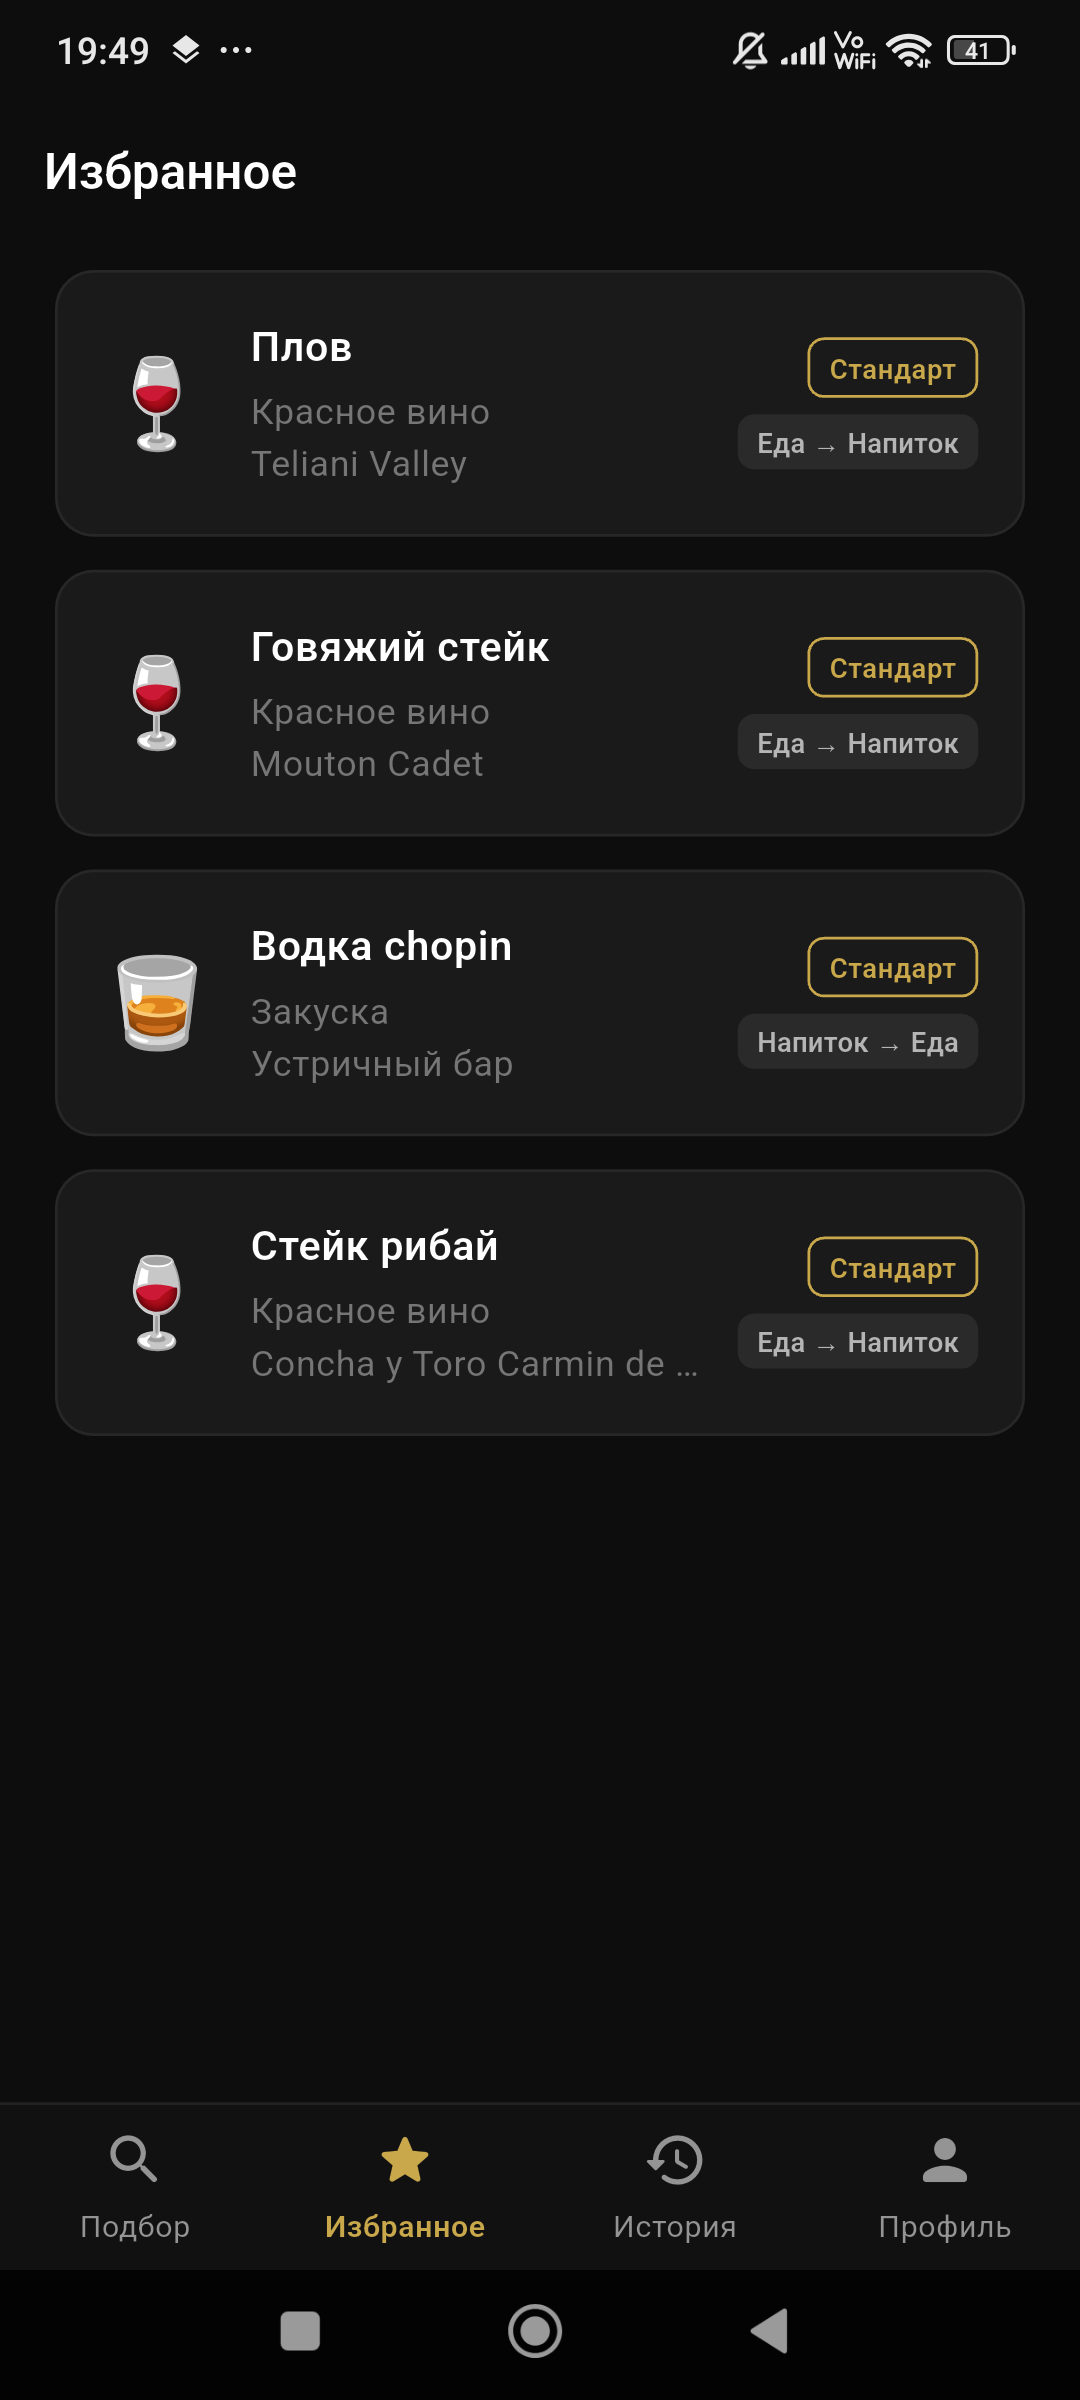
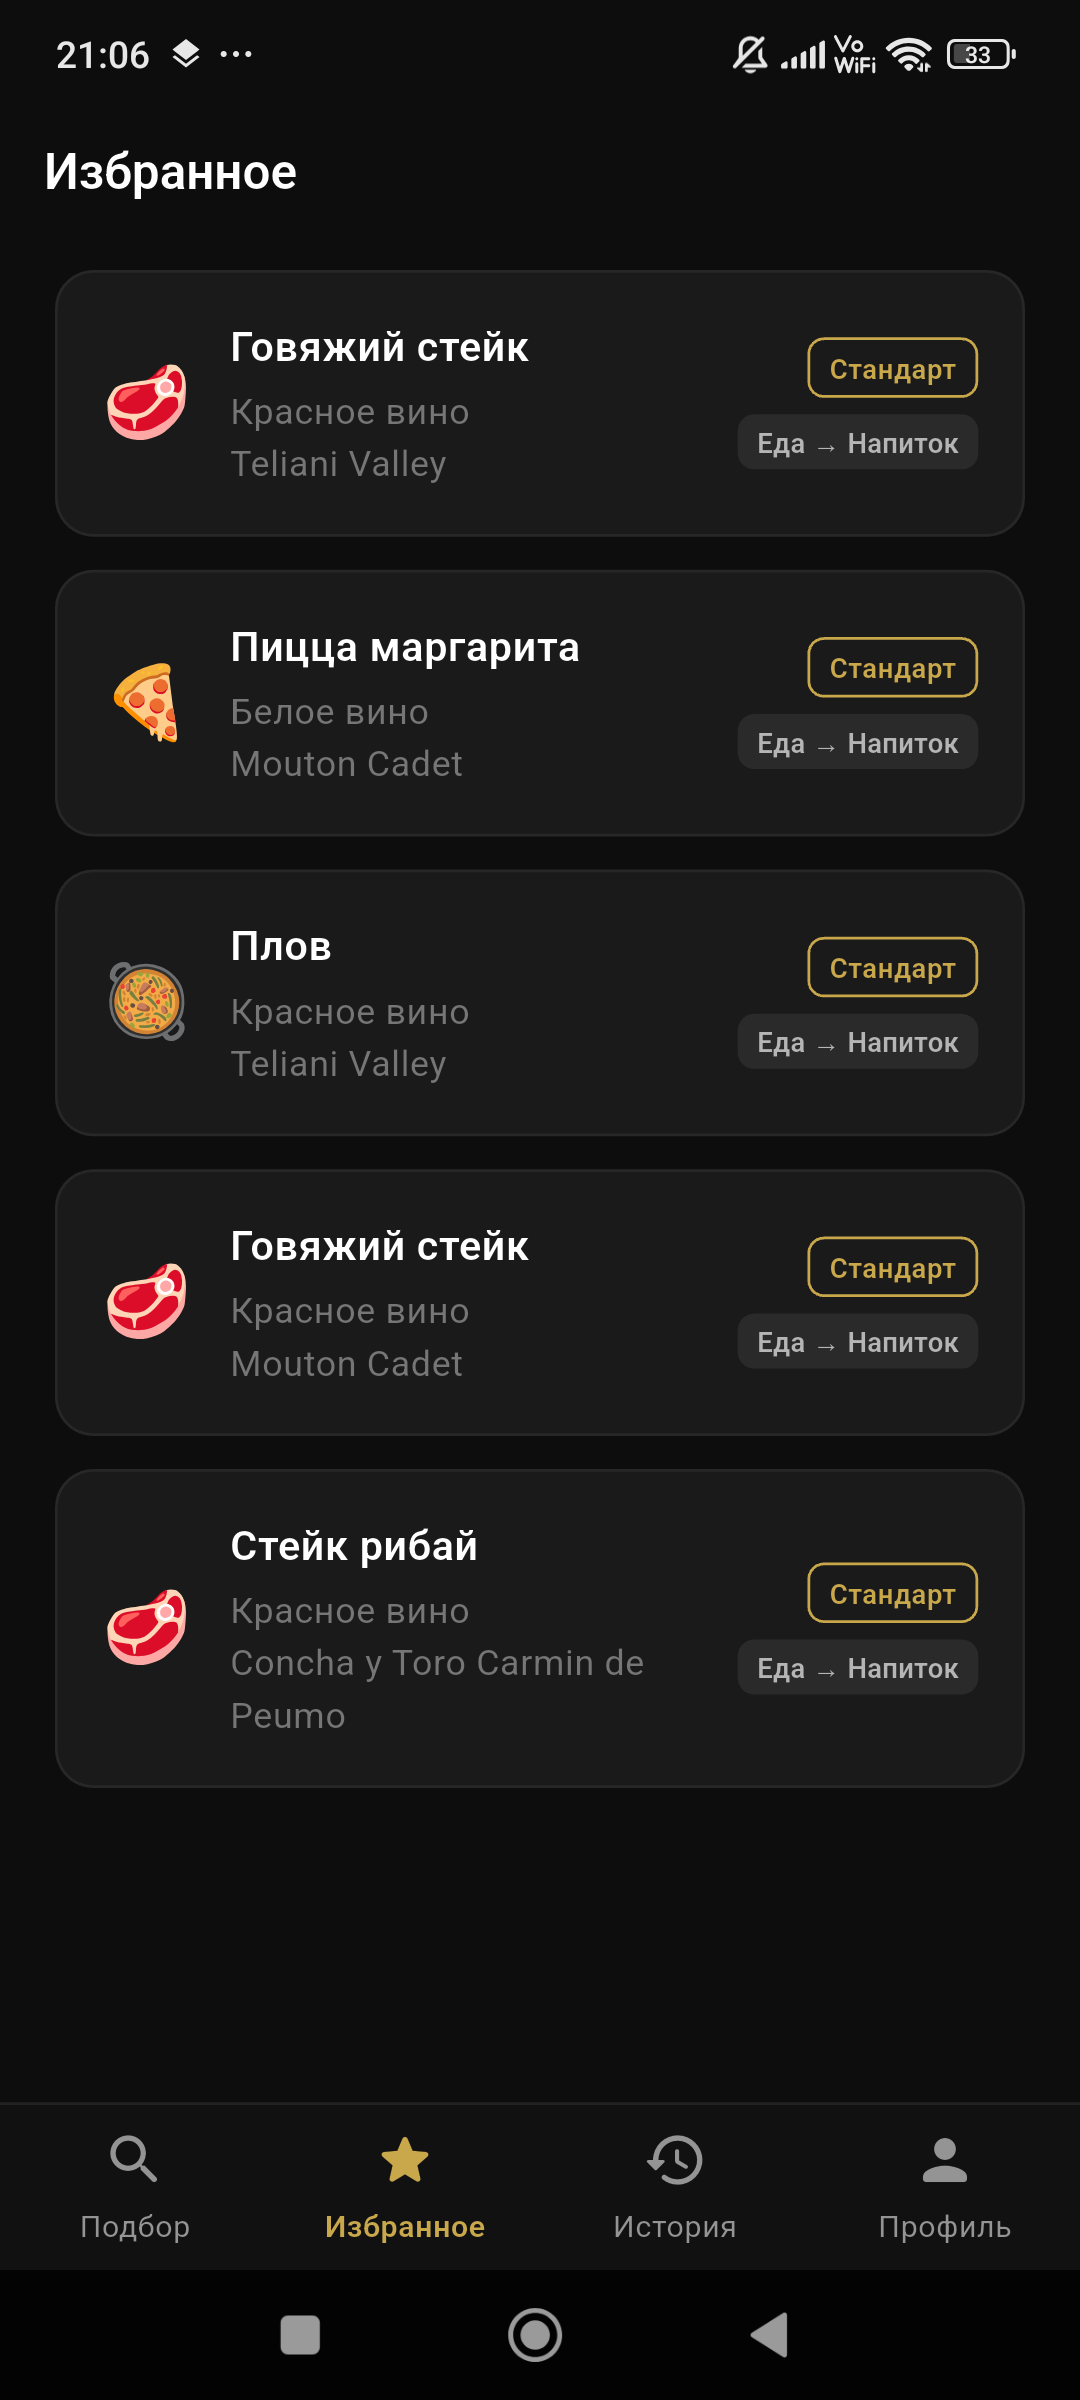
feat(favorites): food emoji per dish + layout polish
- _foodEmoji(dish) maps pizza→🍕, steak→🥩, plov→🥘 etc. for Еда→Напиток mode
- Same function in history_screen for consistency between tabs
- emoji size 26px (was 32) — balanced with text, no dominance
- white wine emoji 🥂→🍷, vodka 🫗→🥃 (MIUI compatibility)
- dish maxLines:2, brand maxLines:2 — no more ellipsis on long names

diff --git a/lib/screens/home_screen.dart b/lib/screens/home_screen.dart
@@ -167,10 +167,7 @@ class _HomeScreenState extends State<HomeScreen> {
           _isFoodToAlcohol
               ? 'Опишите подробнее — чем точнее, тем лучше подборка'
               : 'Укажите напиток — подберем закуски и блюда',
-          style: TextStyle(
-            color: Colors.white.withOpacity(0.35),
-            fontSize: 13,
-          ),
+          style: TextStyle(color: Colors.white.withOpacity(0.35), fontSize: 13),
         ),
       ],
     );
@@ -210,7 +207,12 @@ class _HomeScreenState extends State<HomeScreen> {
 
   Widget _buildHints() {
     final hints = _isFoodToAlcohol
-        ? ['🥩 Говяжий стейк', '🍣 Суши', '🫕 Рамен с курицей', '🧀 Сырная тарелка']
+        ? [
+            '🥩 Говяжий стейк',
+            '🍣 Суши',
+            '🫕 Рамен с курицей',
+            '🧀 Сырная тарелка',
+          ]
         : ['🍷 Красное вино', '🥃 Виски', '🍺 Пиво', '🥂 Шампанское'];
 
     return Wrap(
@@ -286,9 +288,13 @@ class _HomeScreenState extends State<HomeScreen> {
                       Text(
                         _budgetLabels[i],
                         style: TextStyle(
-                          color: selected ? _gold : Colors.white.withOpacity(0.4),
+                          color: selected
+                              ? _gold
+                              : Colors.white.withOpacity(0.4),
                           fontSize: 12,
-                          fontWeight: selected ? FontWeight.w600 : FontWeight.w400,
+                          fontWeight: selected
+                              ? FontWeight.w600
+                              : FontWeight.w400,
                         ),
                       ),
                     ],
@@ -310,7 +316,9 @@ class _HomeScreenState extends State<HomeScreen> {
           content: Text(_isFoodToAlcohol ? 'Введите блюдо' : 'Введите напиток'),
           backgroundColor: Colors.red.shade800,
           behavior: SnackBarBehavior.floating,
-          shape: RoundedRectangleBorder(borderRadius: BorderRadius.circular(10)),
+          shape: RoundedRectangleBorder(
+            borderRadius: BorderRadius.circular(10),
+          ),
           margin: const EdgeInsets.only(bottom: 80, left: 16, right: 16),
         ),
       );
@@ -330,12 +338,12 @@ class _HomeScreenState extends State<HomeScreen> {
       await Navigator.push(
         context,
         PageRouteBuilder(
-          pageBuilder: (_, __, ___) => ResultScreen(
+          pageBuilder: (_, _, _) => ResultScreen(
             dish: dish,
             mode: _isFoodToAlcohol ? 'food_to_alcohol' : 'alcohol_to_food',
             budget: _isFoodToAlcohol ? _budgetKeys[_budgetIndex] : 'medium',
           ),
-          transitionsBuilder: (_, animation, __, child) =>
+          transitionsBuilder: (_, animation, _, child) =>
               FadeTransition(opacity: animation, child: child),
           transitionDuration: const Duration(milliseconds: 220),
         ),
@@ -355,12 +363,18 @@ class _HomeScreenState extends State<HomeScreen> {
           backgroundColor: _gold,
           foregroundColor: _bg,
           disabledBackgroundColor: _gold.withOpacity(0.5),
-          shape: RoundedRectangleBorder(borderRadius: BorderRadius.circular(14)),
+          shape: RoundedRectangleBorder(
+            borderRadius: BorderRadius.circular(14),
+          ),
           elevation: 0,
         ),
         child: Text(
           _isFoodToAlcohol ? 'Подобрать напиток' : 'Подобрать блюда',
-          style: const TextStyle(fontSize: 16, fontWeight: FontWeight.w700, letterSpacing: 0.3),
+          style: const TextStyle(
+            fontSize: 16,
+            fontWeight: FontWeight.w700,
+            letterSpacing: 0.3,
+          ),
         ),
       ),
     );

diff --git a/lib/screens/favorites_screen.dart b/lib/screens/favorites_screen.dart
@@ -225,6 +225,28 @@ class _FavoritesScreenState extends State<FavoritesScreen> {
     );
   }
 
+  String _foodEmoji(String dish) {
+    final d = dish.toLowerCase();
+    if (d.contains('пицц')) return '🍕';
+    if (d.contains('стейк') || d.contains('рибай')) return '🥩';
+    if (d.contains('бургер')) return '🍔';
+    if (d.contains('паст') || d.contains('спагетт')) return '🍝';
+    if (d.contains('суши') || d.contains('роллы') || d.contains('сашим')) return '🍣';
+    if (d.contains('рамен') || d.contains('лапш')) return '🍜';
+    if (d.contains('плов')) return '🥘';
+    if (d.contains('салат')) return '🥗';
+    if (d.contains('десерт') || d.contains('торт') || d.contains('шоколад')) return '🍰';
+    if (d.contains('суп') || d.contains('борщ') || d.contains('солян')) return '🍲';
+    if (d.contains('рыб') || d.contains('лосос') || d.contains('тунец')) return '🐟';
+    if (d.contains('устриц') || d.contains('морепродукт')) return '🦪';
+    if (d.contains('курица') || d.contains('цыпленок')) return '🍗';
+    if (d.contains('свинин') || d.contains('ребра')) return '🥓';
+    if (d.contains('котлет') || d.contains('фарш')) return '🍖';
+    if (d.contains('сыр')) return '🧀';
+    if (d.contains('овощ') || d.contains('гриль')) return '🥦';
+    return '🍽';
+  }
+
   String _drinkEmoji(String drink) {
     final d = drink.toLowerCase();
     if (d.contains('белое') || d.contains('розовое') || d.contains('рислинг') || d.contains('шардоне') || d.contains('пино гриджо') || d.contains('совиньон блан')) return '🥂';
@@ -324,16 +346,11 @@ class _FavoritesScreenState extends State<FavoritesScreen> {
           ),
           child: Row(
             children: [
-              // Для alcohol_to_food — один крупный эмодзи напитка на входе.
-              // Для food_to_alcohol — 3 эмодзи подобранных напитков в ряд:
-              // честный превью разнообразия категорий без тапа.
               Text(
                 item.mode == 'alcohol_to_food'
                     ? _drinkEmoji(item.dish)
-                    : (item.results.isNotEmpty
-                        ? item.results.take(3).map((r) => r.resolvedEmoji).join(' ')
-                        : '🍷'),
-                style: TextStyle(fontSize: item.mode == 'alcohol_to_food' ? 32 : 20),
+                    : _foodEmoji(item.dish),
+                style: const TextStyle(fontSize: 26),
               ),
               const SizedBox(width: 14),
               Expanded(
@@ -343,7 +360,7 @@ class _FavoritesScreenState extends State<FavoritesScreen> {
                     Text(
                       item.dish.isNotEmpty ? '${item.dish[0].toUpperCase()}${item.dish.substring(1)}' : '',
                       style: const TextStyle(color: Colors.white, fontSize: 15, fontWeight: FontWeight.w600),
-                      maxLines: 1,
+                      maxLines: 2,
                       overflow: TextOverflow.ellipsis,
                     ),
                     const SizedBox(height: 4),

diff --git a/lib/screens/history_screen.dart b/lib/screens/history_screen.dart
@@ -172,6 +172,28 @@ class _HistoryScreenState extends State<HistoryScreen> {
     );
   }
 
+  String _foodEmoji(String dish) {
+    final d = dish.toLowerCase();
+    if (d.contains('пицц')) return '🍕';
+    if (d.contains('стейк') || d.contains('рибай')) return '🥩';
+    if (d.contains('бургер')) return '🍔';
+    if (d.contains('паст') || d.contains('спагетт')) return '🍝';
+    if (d.contains('суши') || d.contains('роллы') || d.contains('сашим')) return '🍣';
+    if (d.contains('рамен') || d.contains('лапш')) return '🍜';
+    if (d.contains('плов')) return '🥘';
+    if (d.contains('салат')) return '🥗';
+    if (d.contains('десерт') || d.contains('торт') || d.contains('шоколад')) return '🍰';
+    if (d.contains('суп') || d.contains('борщ') || d.contains('солян')) return '🍲';
+    if (d.contains('рыб') || d.contains('лосос') || d.contains('тунец')) return '🐟';
+    if (d.contains('устриц') || d.contains('морепродукт')) return '🦪';
+    if (d.contains('курица') || d.contains('цыпленок')) return '🍗';
+    if (d.contains('свинин') || d.contains('ребра')) return '🥓';
+    if (d.contains('котлет') || d.contains('фарш')) return '🍖';
+    if (d.contains('сыр')) return '🧀';
+    if (d.contains('овощ') || d.contains('гриль')) return '🥦';
+    return '🍽';
+  }
+
   String _drinkEmoji(String drink) {
     final d = drink.toLowerCase();
     if (d.contains('белое') || d.contains('розовое') || d.contains('рислинг') || d.contains('шардоне') || d.contains('пино гриджо') || d.contains('совиньон блан')) return '🥂';
@@ -219,8 +241,8 @@ class _HistoryScreenState extends State<HistoryScreen> {
             Text(
               item.mode == 'alcohol_to_food'
                   ? _drinkEmoji(item.dish)
-                  : (firstResult?.resolvedEmoji ?? '🍷'),
-              style: const TextStyle(fontSize: 28),
+                  : _foodEmoji(item.dish),
+              style: const TextStyle(fontSize: 26),
             ),
             const SizedBox(width: 12),
             Expanded(

diff --git a/lib/models/pairing_result.dart b/lib/models/pairing_result.dart
@@ -43,7 +43,7 @@ class PairingResult {
     if (t.contains('игристое') || t.contains('шампан') || t.contains('prosecco') || t.contains('cava')) return '🍾';
     if (t.contains('виски') || t.contains('whisky') || t.contains('whiskey') || t.contains('коньяк') || t.contains('бренди')) return '🥃';
     if (t.contains('пиво') || t.contains('beer') || t.contains('lager') || t.contains('ale')) return '🍺';
-    if (t.contains('водка') || t.contains('vodka')) return '🫗';
+    if (t.contains('водка') || t.contains('vodka')) return '🥃';
     if (t.contains('джин') || t.contains('gin')) return '🌿';
     if (t.contains('ром') || t.contains('rum')) return '🍹';
     if (t.contains('текила') || t.contains('tequila')) return '🌵';
